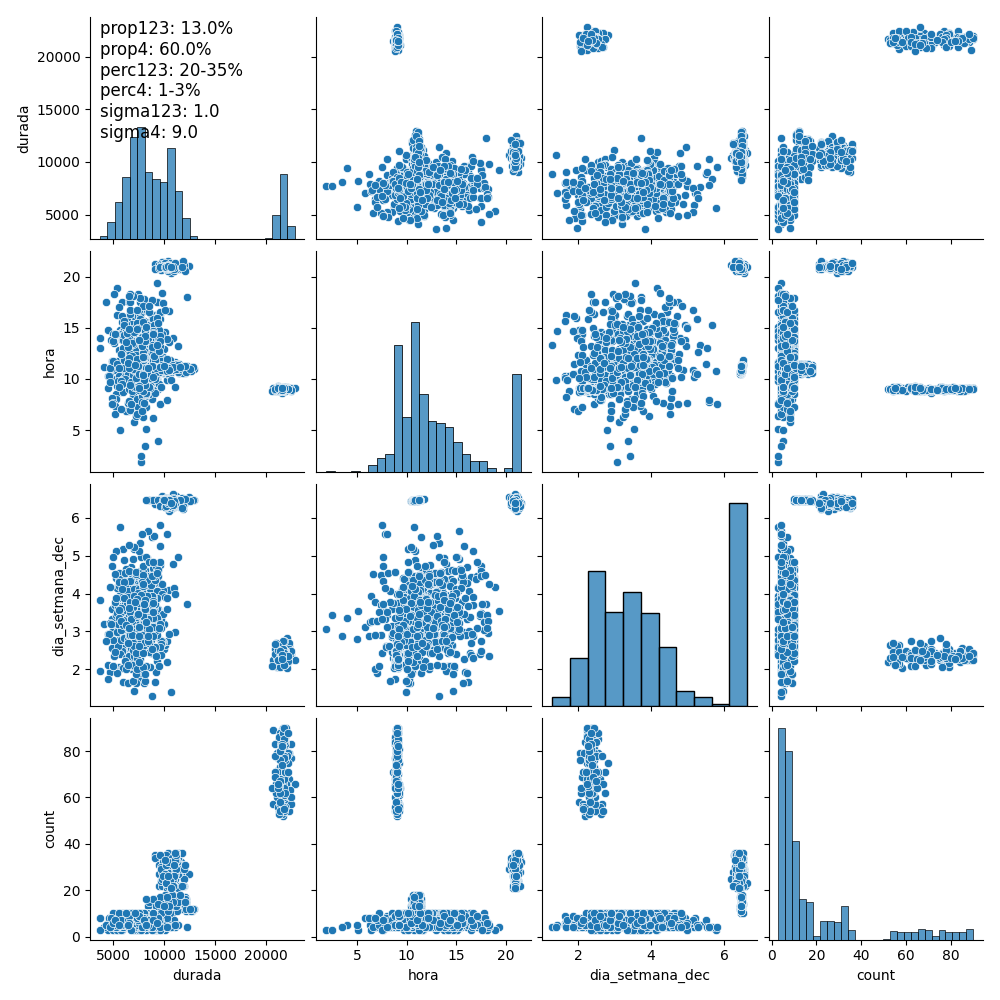
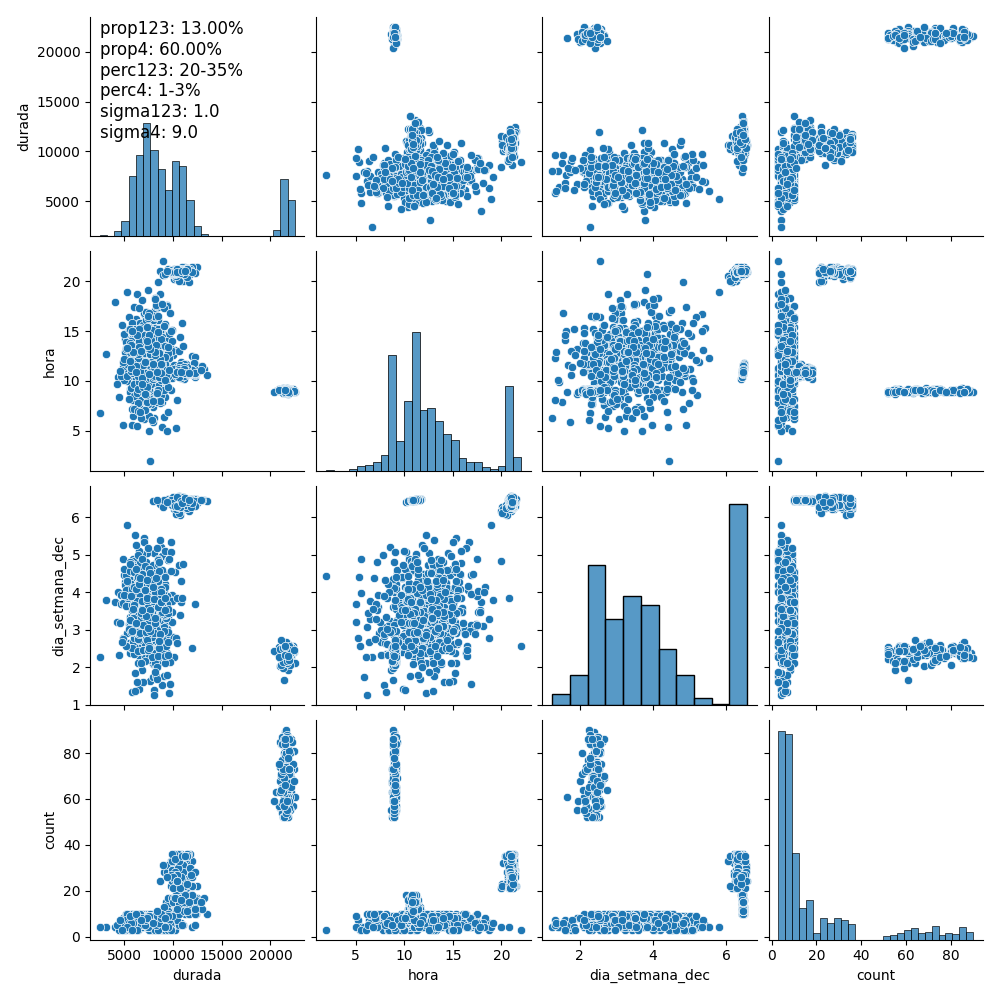
240212 2034

diff --git a/simulacioparking/simulacioparking.py b/simulacioparking/simulacioparking.py
@@ -4,6 +4,7 @@
 
 from utils.customformatter import CustomFormatter
 
+import os
 import sys
 import re
 import itertools
@@ -74,6 +75,12 @@ def ocr(fitxer):
 	gray = cv2.cvtColor(img, cv2.COLOR_BGR2GRAY) #convert to grey scale
 	gray = cv2.bilateralFilter(gray, 11, 17, 17) #Blur to reduce noise
 	edged = cv2.Canny(gray, 30, 200) #Perform Edge detection
+
+	try:
+		os.makedirs(os.path.dirname('img/'))
+	except FileExistsError:
+		pass
+
 	cv2.imwrite("img/edged.png", edged)
 
 	# find contours in the edged image, keep only the largest ones, and initialize our screen contour
@@ -139,16 +146,16 @@ def processar_timer_cli(t, fout): # pragma: no cover
 	str_t = t.strftime("%d-%m-%Y %H:%M:%S")
 	logger.info("timer: %s", str_t)
 	# imprimir tots els cotxes que han d'actuar
-	while arr_cotxes_ordenats[0][2].timestamp() < t.timestamp():
+	while arr_cotxes_ordenats[0][3].timestamp() < t.timestamp():
 		matricula = arr_cotxes_ordenats[0][0]
 		logger.info("%s", matricula)
 		matricula_png = matricula.replace(' ', '-') + '.png'
-		logger.debug(arr_cotxes_ordenats[0][2])
+		logger.debug(arr_cotxes_ordenats[0][3])
 		logger.debug(matricula_png)
 		txt_matricula = ocr('../simulaciodades/matricules/' + matricula_png)
 		logger.info("detectat: %s", txt_matricula)
 		try:
-			fout.write("{};{};{};{}\n".format(txt_matricula, arr_cotxes_ordenats[0][1], arr_cotxes_ordenats[0][2], arr_cotxes_ordenats[0][2].weekday()))
+			fout.write("{};{};{};{}\n".format(txt_matricula, arr_cotxes_ordenats[0][2], arr_cotxes_ordenats[0][3], arr_cotxes_ordenats[0][3].weekday()))
 		except Exception as e:
 			logger.debug('Exception: %s (registre no gravat)', e)
 
@@ -192,7 +199,7 @@ def processar_timer_gui(self, t, fout): # pragma: no cover
 	str_t = t.strftime("%d-%m-%Y %H:%M:%S")
 	logger.info("\ntimer: %s", str_t)
 	# imprimir tots els cotxes que han d'actuar
-	while arr_cotxes_ordenats[0][2].timestamp() < t.timestamp():
+	while arr_cotxes_ordenats[0][3].timestamp() < t.timestamp():
 		matricula = arr_cotxes_ordenats[0][0]
 		logger.info("%s", matricula)
 		matricula_png = matricula.replace(' ', '-') + '.png'
@@ -200,15 +207,15 @@ def processar_timer_gui(self, t, fout): # pragma: no cover
 
 		txt_matricula = ocr('../simulaciodades/matricules/' + matricula_png)
 		logger.info("detectat: %s", txt_matricula)
-		fout.write("{};{};{};{}\n".format(txt_matricula, arr_cotxes_ordenats[0][1], arr_cotxes_ordenats[0][2], arr_cotxes_ordenats[0][2].weekday()))
+		fout.write("{};{};{};{}\n".format(txt_matricula, arr_cotxes_ordenats[0][2], arr_cotxes_ordenats[0][3], arr_cotxes_ordenats[0][3].weekday()))
 
 		# data
-		self.lbl_temps = Label(self.root, text=arr_cotxes_ordenats[0][2].strftime("%d-%m-%Y %H:%M:%S"), background='#ffe4b4', font=("Arial", 35))
+		self.lbl_temps = Label(self.root, text=arr_cotxes_ordenats[0][3].strftime("%d-%m-%Y %H:%M:%S"), background='#ffe4b4', font=("Arial", 35))
 		self.lbl_temps.pack()
 		self.lbl_temps.place(width=450, height=120, x=10, y=120)
 
 		# E/S (entra/surt)
-		str_ES = "Entra" if arr_cotxes_ordenats[0][1] == 'E' else "Surt"
+		str_ES = "Entra" if arr_cotxes_ordenats[0][2] == 'E' else "Surt"
 		self.lbl_ES = Label(self.root, text=f"{str_ES}", background='#ffe4b4', font=("Arial", 35))
 		self.lbl_ES.pack()
 		self.lbl_ES.place(width=150, height=90, x=480, y=250)
@@ -328,35 +335,34 @@ if __name__ == "__main__":
 	dia_fi = dia_inici + timedelta(days=365)
 
 	str_matricules = '../simulaciodades/data/matricules.txt'
-	proporcions = [.1, .1, .1, .7] # proporcions entre I, II, III i IV
 
 	dicc = [
-		{"name":"tipus I", "perc": [20, 50], "mu_t": 21, "s_t": 1, "mu_d": 3, "s_d": 1},
-		{"name":"tipus II", "perc": [20, 50], "mu_t": 11, "s_t": 1, "mu_d": 3, "s_d": 1},
-		{"name":"tipus III", "perc": [20, 50], "mu_t": 9, "s_t": 1, "mu_d": 6, "s_d": 1},
-		{"name":"tipus IV", "perc": [1, 3], "mu_t": 12, "s_t": 8, "mu_d": 2, "s_d": 1}
+		{"name":"tipus I", "proporcio":.1, "perc": [20, 50], "mu_t": 21, "s_t": 1, "mu_d": 3, "s_d": 1},
+		{"name":"tipus II", "proporcio":.1, "perc": [20, 50], "mu_t": 11, "s_t": 1, "mu_d": 3, "s_d": 1},
+		{"name":"tipus III", "proporcio":.1, "perc": [20, 50], "mu_t": 9, "s_t": 1, "mu_d": 6, "s_d": 1},
+		{"name":"tipus IV", "proporcio":.7, "perc": [1, 3], "mu_t": 12, "s_t": 8, "mu_d": 2, "s_d": 1}
 	]
 
 	f = open(str_matricules, 'r')
 	matricules = f.readlines()
 	f.close()
 
+	count = 0
 	cotxes_tipus_I = []
 	cotxes_tipus_II = []
 	cotxes_tipus_III = []
 	cotxes_tipus_IV = []
 
-	count = 0
 
 	# assignació de cotxes a tipologia
 	for mat in matricules:
 		mat = mat.strip()
 
-		if count <= int(proporcions[0]*len(matricules)):
+		if count <= int(dicc[0]['proporcio']*len(matricules)):
 			cotxes_tipus_I.append(mat)
-		elif count <= int((proporcions[0] + proporcions[1])*len(matricules)):
+		elif count <= int((dicc[0]['proporcio'] + dicc[1]['proporcio'])*len(matricules)):
 			cotxes_tipus_II.append(mat)
-		elif count <= int((proporcions[0] + proporcions[1] + proporcions[2])*len(matricules)):
+		elif count <= int((dicc[0]['proporcio'] + dicc[1]['proporcio'] + dicc[2]['proporcio'])*len(matricules)):
 			cotxes_tipus_III.append(mat)
 		else:
 			cotxes_tipus_IV.append(mat)
@@ -373,17 +379,22 @@ if __name__ == "__main__":
 
 	arr_cotxes = []
 	for i in range(len(cotxes_tipus)):
-		arr_cotxes.append(generar_dades_tipus(cotxes_tipus[i], dicc[i], dies[i])[0])
+		arr_cotxes.append(generar_dades_tipus(i+1, cotxes_tipus[i], dicc[i], dies[i])[0])
 
 	# fem el flatten, i ordenem per les dates
 	arr_cotxes = list(itertools.chain.from_iterable(arr_cotxes)) # amb un array de numpy això es fa amb flatten()
-	arr_cotxes_ordenats = sorted(arr_cotxes, key=lambda x: x[2]) # ordenem per dia
+	arr_cotxes_ordenats = sorted(arr_cotxes, key=lambda x: x[3]) # ordenem per dia
 
 	logger.info("Tasca prèvia finalitzada, comença la simulació\n")
 	sleep(2)
 
 	#dia = dia_inici + timedelta(hours=ara.hour) # hora actual
 	dia = dia_inici + timedelta(minutes=15) # hora actual
+
+	try:
+		os.makedirs(os.path.dirname('data/'))
+	except FileExistsError:
+		pass
 
 	foutput = open("data/registre.csv", "a") # mode append per tal de què es vagin acumulant tots els valors
 	if mode == 'cli':

diff --git a/simulaciodades/simulaciodades.py b/simulaciodades/simulaciodades.py
@@ -5,6 +5,7 @@
 from utils.customformatter import CustomFormatter
 
 from datetime import datetime, timedelta
+import os
 import random
 import string
 import logging
@@ -16,7 +17,7 @@ from PIL import Image, ImageDraw, ImageFont, ImageFilter
 logger = logging.getLogger("simulaciodades")
 logger.setLevel(logging.DEBUG)
 ch = logging.StreamHandler()
-ch.setLevel(logging.WARNING) # canviar a DEBUG mentre es programa
+ch.setLevel(logging.INFO) # canviar a DEBUG mentre es programa
 ch.setFormatter(CustomFormatter())
 logger.addHandler(ch)
 
@@ -31,6 +32,12 @@ def generar_matricules(num=1000, str_fitxer='data/matricules.txt'):
 	Returns:
 		None
 	"""
+
+	try:
+		os.makedirs(os.path.dirname(str_fitxer))
+	except FileExistsError:
+		pass
+
 	fout = open(str_fitxer, "w")
 
 	for _ in range(num):
@@ -60,6 +67,12 @@ def generar_matricules_png(fitxer_matricules, bool_imgfons=True, directori='matr
 	Returns: None
 	"""
 	logger.info('Generant els png de les matrícules...')
+
+	try:
+		os.makedirs(os.path.dirname(directori))
+	except FileExistsError:
+		pass
+
 	if bool_imgfons:
 		frontal = Image.open(directori + "frontal/frontal.png")
 
@@ -109,8 +122,6 @@ def generar_matricules_png(fitxer_matricules, bool_imgfons=True, directori='matr
 		# img.show()
 		img.save(directori + matricula.replace(' ', '-') + ".png")
 	f.close()
-
-
 
 def generar_caps_de_setmana(dia_i, dia_f):
 	"""
@@ -195,12 +206,13 @@ def generar_dies_tots(dia_i, dia_f):
 		dia = dia + timedelta(days=1)
 	return lst_dies
 
-def generar_dades_tipus(arr_cotxes, dicc_, dies_, fout=None, fout_d=None):
+def generar_dades_tipus(tipus, arr_cotxes, dicc_, dies_, fout=None, fout_d=None):
 	"""
 	Simulació: Genera un array de dates entre dia_inici i dia_fi per a cadascun dels cotxes de l'array,
 	i els escriu als dos fitxers
 
 	arguments:
+    tipus -- tipus (1=I, 2=II, 3=III, 4=IV)
 		arr_cotxes -- arr de matrícules de cotxes
 		dicc_ -- el diccionari amb les especificacions de com s'ha d'omplir la simulació
 		dies_ -- llista de dies que seran assignats
@@ -266,12 +278,12 @@ def generar_dades_tipus(arr_cotxes, dicc_, dies_, fout=None, fout_d=None):
 			hora = round(dies_pkg_entrada[i].hour + dies_pkg_entrada[i].minute/60 + dies_pkg_entrada[i].second/3600, 1)
 			dia_setmana_dec = round(dia_setmana + hora/24, 1)
 			if fout and fout_d:
-				fout.write("{};E;{};{}\n".format(cotxe, dies_pkg_entrada[i], dies_pkg_entrada[i].weekday()))
-				fout.write("{};S;{};{}\n".format(cotxe, dies_pkg_sortida[i], dies_pkg_entrada[i].weekday()))
-				fout_d.write("{};{};{};{};{};{}\n".format(cotxe, dies_pkg_entrada[i], durada, hora, dia_setmana, dia_setmana_dec))
-			arr_reg_ES.append([cotxe, 'E', dies_pkg_entrada[i], dies_pkg_entrada[i].weekday()])
-			arr_reg_ES.append([cotxe, 'S', dies_pkg_sortida[i], dies_pkg_entrada[i].weekday()])
-			arr_reg_durada.append([cotxe, durada, hora, dia_setmana_dec])
+				fout.write("{};{};E;{};{}\n".format(cotxe, tipus, dies_pkg_entrada[i], dies_pkg_entrada[i].weekday()))
+				fout.write("{};{};S;{};{}\n".format(cotxe, tipus, dies_pkg_sortida[i], dies_pkg_entrada[i].weekday()))
+				fout_d.write("{};{};{};{};{};{};{}\n".format(cotxe, tipus, dies_pkg_entrada[i], durada, hora, dia_setmana, dia_setmana_dec))
+			arr_reg_ES.append([cotxe, tipus, 'E', dies_pkg_entrada[i], dies_pkg_entrada[i].weekday()])
+			arr_reg_ES.append([cotxe, tipus, 'S', dies_pkg_sortida[i], dies_pkg_entrada[i].weekday()])
+			arr_reg_durada.append([cotxe, tipus, durada, hora, dia_setmana_dec])
 	return arr_reg_ES, arr_reg_durada
 
 # ----------------------------------------------
@@ -282,8 +294,14 @@ if __name__ == "__main__":
 	np.random.seed(10)
 
 	str_matricules = 'data/matricules.txt'
-	#generar_matricules(1000) # 1000 matrícules (cotxes)
-	#generar_matricules_png(str_matricules)
+
+	try:
+		os.makedirs(os.path.dirname(str_matricules))
+	except FileExistsError:
+		pass
+
+	generar_matricules(1000) # 1000 matrícules (cotxes)
+	generar_matricules_png(str_matricules)
 
 	dia_inici = datetime(2023, 1, 1, 0, 0, 0)
 	dia_fi = datetime(2023, 12, 31, 23, 59, 59)
@@ -331,12 +349,12 @@ if __name__ == "__main__":
 	foutput = open("data/registre.csv", "w")
 	foutput_d = open("data/registre_durada.csv", "w")
 
-	foutput.write("matricula;ES;dia_hora;dia_setmana\n")
-	foutput_d.write("matricula;dia_hora;durada;hora;dia_setmana;dia_setmana_dec\n")
+	foutput.write("matricula;tipus;ES;dia_hora;dia_setmana\n")
+	foutput_d.write("matricula;tipus;dia_hora;durada;hora;dia_setmana;dia_setmana_dec\n")
 
 	arr_cotxes = []
 	for i in range(len(cotxes_tipus)):
-		arr_cotxes.append(generar_dades_tipus(cotxes_tipus[i], dicc[i], dies[i], foutput, foutput_d))
+		arr_cotxes.append(generar_dades_tipus(i+1, cotxes_tipus[i], dicc[i], dies[i], foutput, foutput_d))
 
 	foutput.close()
 	foutput_d.close()

diff --git a/generarinforme/generarinforme.py b/generarinforme/generarinforme.py
@@ -69,7 +69,7 @@ def generacio_dades(c, dicc_, dies_):
 	logger.debug(dicc_)
 	arr_cotxes = []
 	for cot in enumerate(c):
-		arr_cotxes.append(generar_dades_tipus(cot[1], dicc_[cot[0]], dies_[cot[0]])[1])
+		arr_cotxes.append(generar_dades_tipus(cot[0]+1, cot[1], dicc_[cot[0]], dies_[cot[0]])[1])
 
 	# fem el flatten, i ordenem per les dates
 	arr_cotxes = list(itertools.chain.from_iterable(arr_cotxes)) # amb un array de numpy això es fa amb flatten()
@@ -126,8 +126,8 @@ def tractament_dades(lst_parking_data):
 	"""
 	logger.debug(lst_parking_data[20])
 
-	parking_data = pd.DataFrame(lst_parking_data, columns=['matricula', 'durada', 'hora', 'dia_setmana_dec'])
-
+	parking_data = pd.DataFrame(lst_parking_data, columns=['matricula', 'tipus', 'durada', 'hora', 'dia_setmana_dec'])
+	parking_data = parking_data.drop('tipus', axis=1)
 	parking_data_gb = parking_data.groupby(['matricula']).mean()
 	parking_data_gb = parking_data_gb.merge(parking_data.groupby(['matricula']).count()['durada'], how='inner', on='matricula')
 	parking_data_gb = parking_data_gb.rename(columns={'durada_x': 'durada', 'durada_y': 'count'})
